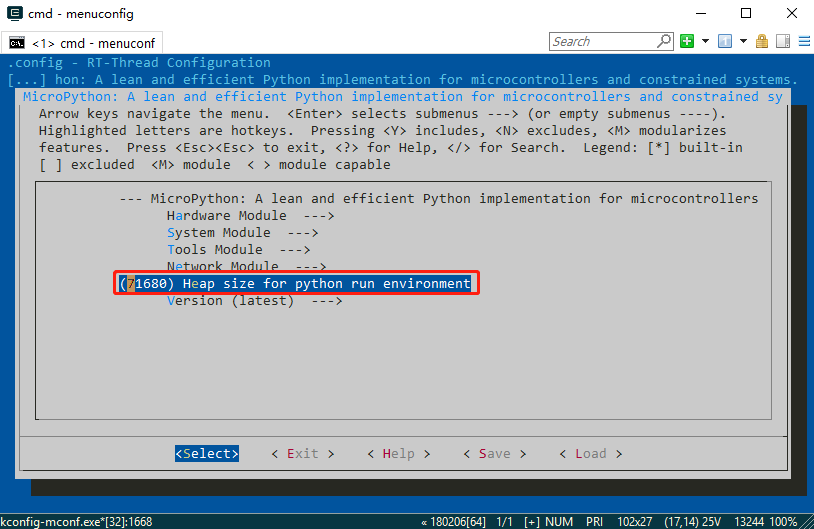
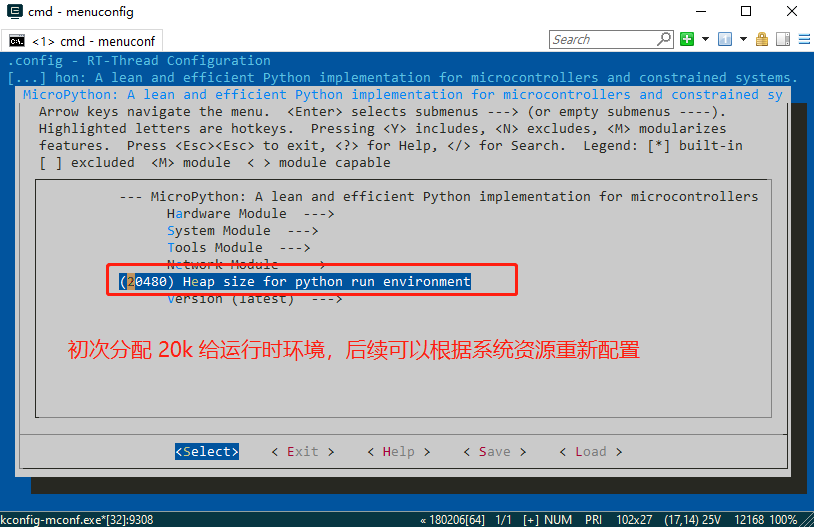
【修改】更新 micropython 说明文档

diff --git a/docs/MicroPythonPlug-in/MicroPython_Firmware_Development_Guide.md b/docs/MicroPythonPlug-in/MicroPython_Firmware_Development_Guide.md
@@ -28,7 +28,7 @@
 
 #### 配置系统
 
-通过上一步查询的内存分配情况，可以看到系统 RAM 资源较为剩余充足。因此我们决定分配 70k 内存给 MicroPython 运行时环境，配置如下图所示：
+通过上一步查询的内存分配情况，对系统 RAM 资源有了一定的了解。在本次示例中，我们分配 20k 内存用于 MicroPython 运行时环境。后续如果想要运行更多 MicroPython 代码，可以将更多空余内存分配给 MicroPython 运行时环境，配置如下图所示：
 
 ![1564476923786](assets/1564476923786.png)
 
